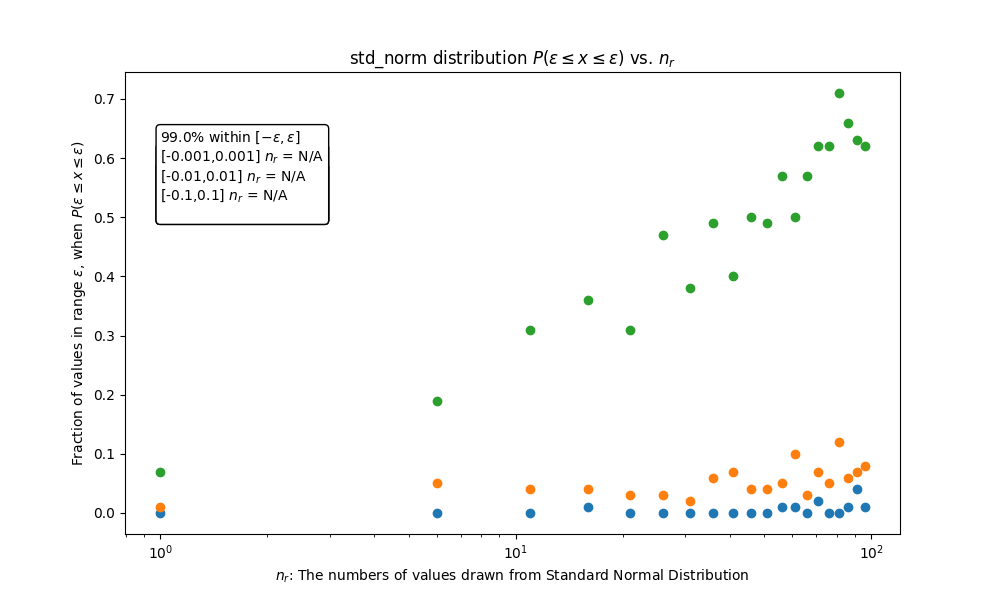
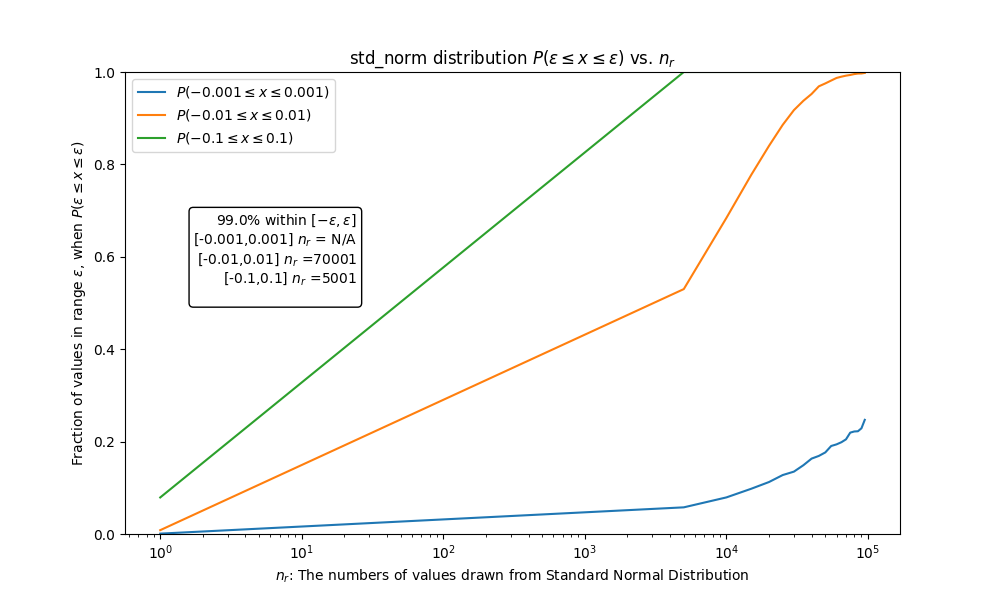
more work

diff --git a/HW3/HW3_2_2.py b/HW3/HW3_2_2.py
@@ -7,8 +7,8 @@ mu_max        = 0.01
 
 n_experiments = 10000
 n_min         = 1
-n_max         = n_experiments
-n_step        = 50
+n_max         = n_experiments*10
+n_step        = 5000
 
 epsilons_min  = -3 # 10^-n, specifying n
 epsilons_max  = -1 # 10^-n, specifying n
@@ -16,7 +16,7 @@ epsilons_max  = -1 # 10^-n, specifying n
 fraction_in_range = .99
 box = ""
 
-dist_types = ["std_norm", "uni", "bin", "poi", "chi2", "geo"]
+dist_types =["std_norm", "uni", "bin", "poi", "chi2", "geo"]# ["std_norm", "uni", "bin", "poi", "chi2", "geo"]
 
 def chebyshev(n_range: np.array, mu_min:float, mu_max: float) -> np.array:
     return 1 - ( 1 / (((mu_max - mu_min)/2)**2 * n_range**2))
@@ -34,7 +34,7 @@ def part_1(min: float, max: float, n_trials: int, n_experiments: int, dist_type:
 
 
 
-def part_2(n_experiments: int, n_min: int, n_max, n_step, mu_min: float, mu_max: float, dist_type: float) -> None:
+def part_2(n_experiments: int, n_min: int, n_max, n_step, mu_min: float, mu_max: float, dist_type: float) -> np.array:
 
     n_range   = np.arange(n_min, n_max, n_step)
     in_ranges = np.array([])
@@ -45,22 +45,16 @@ def part_2(n_experiments: int, n_min: int, n_max, n_step, mu_min: float, mu_max:
         in_ranges = np.append(in_ranges,in_range)
 
     
-    box = part_3(n_range, in_ranges, fraction_in_range, mu_min, mu_max)
-    # chebyshev_data = chebyshev(n_range,mu_min, mu_max)   
+    part_3(n_range, in_ranges, fraction_in_range, mu_min, mu_max)
+    # chebyshev_data = chebyshev(n_range,mu_min, mu_max)
 
-    plt.text(
-        1,.5,
-        box,
-        bbox = dict(boxstyle = 'round', facecolor = 'white')
-    )
-
-    # plt.ylim(0,in_ranges.max())
-    plt.scatter(n_range, in_ranges, label = fr'$P({mu_min} \leq x \leq {mu_max})$')
+    plt.plot(n_range, in_ranges, label = fr'$P({mu_min} \leq x \leq {mu_max})$')
     # plt.plot(n_range, chebyshev_data, label = "chebyshev")
+    plt.ylim(0,in_ranges.max())
+    plt.legend()
+    return in_ranges
 
-    # plt.legend()
-
-
+### This part i only need for n_r = 100 not for all n_rs
 def part_3(n_range: np.array, in_ranges: np.array, fraction_in_range: float, mu_min: float, mu_max: float)-> str:
     global box
     fraction_finder = n_range[np.argmax(in_ranges > fraction_in_range)]
@@ -85,26 +79,35 @@ def part_4(n_experiments: int, n_min: int, n_max: int, n_step: int, epsilons_min
     plt.xlabel(fr"$n_r$: The numbers of values drawn from Standard Normal Distribution")
     plt.xscale("log")
     
-
     
 
 
     for ep in epsilons:
         print(fr"Plotting {n_experiments} experiments drawing up to {n_max} values with mean tolerance {ep}")
 
-        part_2(n_experiments, n_min, n_max, n_step, -ep, ep, dist_type)
+        in_ranges = part_2(n_experiments, n_min, n_max, n_step, -ep, ep, dist_type)
+
+
+    plt.text(
+        0.3, in_ranges.max()/2, box,
+        transform=plt.gca().transAxes,
+        ha='right', va='bottom',
+        bbox=dict(boxstyle='round', facecolor='white')
+    )
 
     plt.savefig(f"HW3_2_2_{dist_type}.png")
-    plt.legend()
+    
 
 
 def part_5(n_experiments: int, n_min: int, n_max:int, n_step:int, epsilons_min: float, epsilons_max:float)-> None:
 
     for dt in dist_types:
-        print("="*5, dt, "="*5)
-        part_4(n_experiments, n_min, n_max, n_step, epsilons_min, epsilons_max, dt)
         global box
         box = ""
+        print("="*5, dt, "="*5)
+        part_4(n_experiments, n_min, n_max, n_step, epsilons_min, epsilons_max, dt)
+
+        
     
     
 
@@ -112,7 +115,7 @@ def part_5(n_experiments: int, n_min: int, n_max:int, n_step:int, epsilons_min: 
 def get_fraction_within_epsilon(data: np.array, mu_min: float, mu_max: float)-> np.array:
     return data[(data >= mu_min) & (data <= mu_max)].size / data.size
 
-def get_dataset(n: int, type: str) -> np.array:
+def get_dataset(n: int, n_experiments: int, type: str) -> np.array:
 
     match type:
         case "std_norm":
@@ -124,31 +127,24 @@ def get_dataset(n: int, type: str) -> np.array:
             
             r(x) = 1 / sqrt(2 * pi) * exp [ -x^2 / 2]
             '''
-            return np.random.standard_normal(n) 
+            return np.random.standard_normal(size = (n,n_experiments)) 
         case "bin":
-            return np.random.binomial(n,.5,n)
+            return np.random.binomial(n,.5,size = (n,n_experiments))
         case "uni":
-            return np.random.uniform(size = n)
+            return np.random.uniform(-1, 1, size = (n,n_experiments))
         case "poi":
-            return np.random.poisson(size = n)
+            return np.random.poisson(.01,size = (n,n_experiments))
         case "chi2":
-            return np.random.chisquare(1, n)
+            return np.random.chisquare(.01,size = (n,n_experiments))
         case "geo":
-            return np.random.geometric(.5, n)
+            return np.random.geometric(.1, size = (n,n_experiments))
 
-    
+def generate_sample_means(n_experiments: int, n_trials: int, dist_type: str = "std_norm")-> np.array:
+
+
+    data = get_dataset(n_trials, n_experiments, dist_type)
         
-
-
-
-def generate_sample_means(n_experiments: int, n_trials: int, dist_type: str)-> np.array:
-    X_bars = np.array([])
-
-    for n_ex in range(n_experiments):
-
-        data = get_dataset(n_trials, dist_type)
-        
-        X_bars = np.append(X_bars, data.mean()) 
+    X_bars = np.mean(data, axis = 0)
 
     return X_bars
 

diff --git a/HW3/HW3_3.py b/HW3/HW3_3.py
@@ -1,0 +1,82 @@
+
+import numpy as np
+import matplotlib.pyplot as plt
+
+n = 10
+n_experiments = 10000
+
+n_min = 1
+n_max = n_experiments
+n_step = 50
+
+dist_types =["std_norm", "uni"]
+box = ""
+
+def get_dataset(n: int,n_experiments: int,  type: str) -> np.array:
+
+    match type:
+        case "std_norm":
+            '''
+            f(x) = 1 / sqrt(2 * pi * sigma) * exp[-(x - mu)^2 / (2 * sigma ^2)]
+
+            For the case of mu = 0 , sigma = 1, this is the Standard Normal which is a specific case of the Gaussian Distribution.
+            It is a continuous probabilty density function
+            
+            r(x) = 1 / sqrt(2 * pi) * exp [ -x^2 / 2]
+            '''
+            return np.random.standard_normal(size=(n, n_experiments)) 
+        case "uni":
+            return np.random.uniform(-1, 1, size = (n,n_experiments))
+
+def generate_sample_means(n_experiments: int, n_trials: int, dist_type: str = "std_norm")-> np.array:
+
+    data = get_dataset(n_trials, n_experiments, dist_type)
+        
+    X_bars = np.mean(data, axis = 0)
+
+    return X_bars
+
+def part_2(data: np.array, n: int)-> np.array:
+
+    return data[(data >= 1/np.sqrt(n))].size / data.size
+
+
+def part_1(n_trials: int, n_experiments: int, dist_type: str) -> float:
+    
+    X_bars = generate_sample_means(n_experiments, n_trials, dist_type)
+
+    plt.hist(X_bars, label = f"{dist_type}", density=True, bins = 50, edgecolor = "black")
+
+    global box
+    box +=f"{dist_type} {part_2(X_bars, n)*100:.3}% above" + r'$\frac{1}{\sqrt{n}}$' + '\n'
+
+def part_3(n_min: int, n_max: int, n_step: float):
+    n_range = np.arange(n_min, n_max, n_step)
+    above_inv_sqrt_n = np.array([])
+    for n_r in n_range:
+        X_bar = generate_sample_means(n_experiments, n_r)
+        plt.title(fr"$n_r$: {n_r}, above: {part_2(X_bar, n_r)}")
+        plt.hist(X_bar, density=True, bins = 50, edgecolor = "black")
+        plt.show()
+        above_inv_sqrt_n = np.append(above_inv_sqrt_n, part_2(X_bar, n_r))
+
+    plt.plot(n_range, above_inv_sqrt_n)
+    # plt.xscale("log")
+    # plt.show()
+def main():
+
+
+    # for dt in dist_types:
+    #     part_1(n, n_experiments, dt)
+    # plt.legend()
+
+    # plt.text(
+    #     0.3, .2, box,
+    #     transform=plt.gca().transAxes,
+    #     ha='right', va='bottom',
+    #     bbox=dict(boxstyle='round', facecolor='white')
+    # )
+    # plt.show()
+    part_3(n_min, n_max, n_step)
+if __name__ == "__main__":
+    main()
